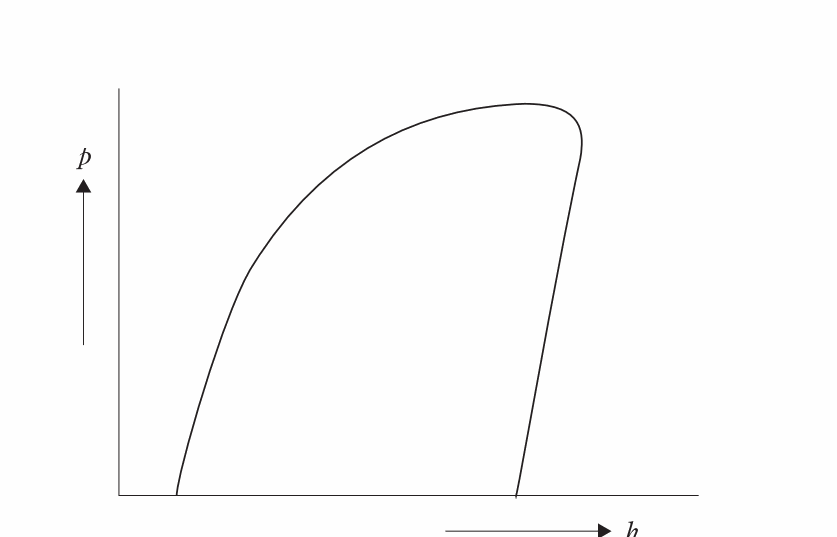
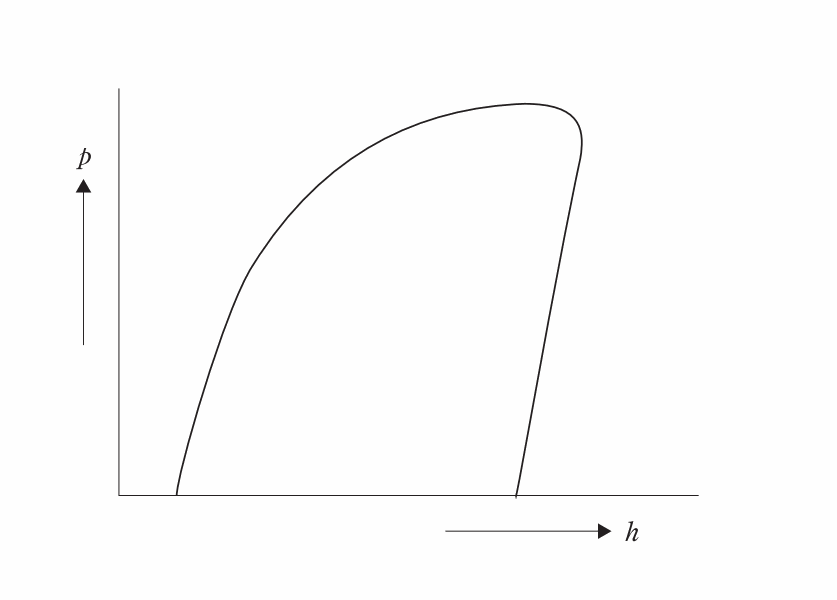
fix: address independent review findings for khk-reito
Claude-Session: https://claude.ai/code/session_01TieomE8ZuJ1vEVjmTLpy7i

diff --git a/__tests__/questions/khk-reito-staging.test.ts b/__tests__/questions/khk-reito-staging.test.ts
@@ -31,6 +31,48 @@ for (const rank of [1, 2, 3]) {
   const code = `khk-reito-${rank}` as ExamCode;
   const questions = JSON.parse(readFileSync(join(process.cwd(), `data/questions/${code}/latest-two.json`), "utf8")) as Question[];
   describe(`${code} latest two official sittings, unpublished`, () => {
+    if (rank === 1 || rank === 2) {
+      it("explains why the R6 law q1 gas at 0.9 MPa is outside the compressed-gas definition", () => {
+        const q = questions.find(q => q.year === 2024 && q.session === "houki" && q.qNumber === 1)!;
+        expect(q.officialAnswerNumber).toBe("3");
+        expect(q.answer).toBe("ウ");
+        expect(q.choices?.ウ).toBe("イ、ロ");
+        for (const text of [q.explanation, ...Object.values(q.choiceExplanations ?? {})]) {
+          expect(text).toContain("ロも正しい");
+          expect(text).toContain("かつ現に1MPa以上");
+          expect(text).toContain("35℃では1MPa未満");
+          expect(text).toContain("したがって高圧ガスではない");
+          expect(text).toContain("ハは誤り");
+          expect(text).toContain("30℃なので、常用温度で0.15MPaでも高圧ガスである");
+        }
+      });
+    }
+
+    if (rank === 1) {
+      it.each([
+        { year: 2025, number: 6, answer: "1", facts: ["ハは誤り", "同じ汚れ係数の増分", "低下は次第に緩やか", "1/K＝1/K₀＋f", "清浄時からの累積低下率とは区別", "並流より向流のほうが大きい"] },
+        { year: 2024, number: 2, answer: "1", facts: ["ロは誤り", "取付け位置よりも下流側（圧縮機側）", "調整弁の上流側（蒸発器側）", "蒸発器出口の温度と圧力", "消費動力は減少ではなく増加"] },
+      ])("explains the incorrect statements in $year safety q$number in every choice", ({ year, number, answer, facts }) => {
+        const q = questions.find(q => q.year === year && q.session === "hoan" && q.qNumber === number)!;
+        expect(q.officialAnswerNumber).toBe(answer);
+        expect(q.explanationCoverage).toBe("full");
+        for (const text of [q.explanation, ...Object.values(q.choiceExplanations ?? {})]) {
+          for (const fact of facts) expect(text).toContain(fact);
+        }
+      });
+    }
+
+    if (rank === 2) {
+      it("preserves the fourth power and squared units in the R7 radiation formula", () => {
+        const q = questions.find(q => q.year === 2025 && q.session === "kogaku" && q.qNumber === 4)!;
+        expect(q.question).toContain("Ｅ＝σＴ⁴");
+        expect(q.question).toContain("ｋＷ/ｍ²");
+        expect(q.question).toContain("ｍ²・Ｋ⁴");
+        expect(q.question).not.toMatch(/Ｔ\s*４/);
+        expect(q.officialAnswerNumber).toBe("4");
+      });
+    }
+
     it("contains complete consecutive papers and official answer sequences", () => {
       expect(questions).toHaveLength(rank === 3 ? 70 : 80);
       for (const year of [2025, 2024]) {

diff --git a/scripts/khk-reito-build.py b/scripts/khk-reito-build.py
@@ -70,6 +70,14 @@ for year in [2025, 2024]:
         for row in rows:
             number = row["qNumber"]
             text = clean(row["question"])
+            if (rank, year, kind, number) == (2, 2025, "Z", 4):
+                # PDF body p.3: the exponent and unit powers are superscripts.
+                # Text extraction flattens them; retain their mathematical meaning.
+                for original, corrected in [("Ｅ＝σ Ｔ ４", "Ｅ＝σＴ⁴"),
+                                            ("ｋＷ/ｍ２", "ｋＷ/ｍ²"),
+                                            ("ｍ２・Ｋ４", "ｍ²・Ｋ⁴")]:
+                    assert text.count(original) == 1, (paper, number, original)
+                    text = text.replace(original, corrected)
             if (rank, year, kind, number) == (3, 2025, "X", 6):
                 # PDF p.2: the horizontal fraction bar is not a minus sign.
                 assert "Ｇ＝－Ｖ\nＣ" in text

diff --git a/scripts/khk-reito-figures.py b/scripts/khk-reito-figures.py
@@ -16,7 +16,8 @@ figures = {
         ("R7ACGZ-W.pdf", 2, (95, 265, 505, 435), "2025-gakushiki-q2-diagram"),
         ("R7ACGZ-W.pdf", 4, (70, 145, 535, 325), "2025-gakushiki-q4-table"),
         ("R6fy_03.pdf", 1, (120, 125, 490, 310), "2024-gakushiki-q2-answer-diagram"),
-        ("R6ACGZK-W.pdf", 4, (205, 220, 540, 435), "2024-gakushiki-q2-blank-chart"),
+        # Include the entire h axis label and whitespace below it.
+        ("R6ACGZK-W.pdf", 4, (205, 220, 540, 460), "2024-gakushiki-q2-blank-chart"),
     ],
     2: [
         ("R6ACHZ-W.pdf", 1, (175, 225, 535, 500), "2024-second-gakushiki-q1-chart"),

diff --git a/reports/cloud-khk-reito-latest2.md b/reports/cloud-khk-reito-latest2.md
@@ -1,6 +1,8 @@
 # khk-reito 直近2回の収録監査
 
-確認日：2026-11-03 UTC。オーナー指示に記された判断日時は2026-11-04 06:10としてそのまま記録する。実行環境の日付と区別する。
+確認日：2026-11-03 UTC。独立レビュー（対象 `94db9767`）のFAIL指摘4項目を生成元から修正し、下記「独立レビュー指摘の修正と再検証」に記録した。今回の修正は未コミットの作業ツリー差分として監督役へ引き渡す。既存bundleには今回の修正を含まない。
+
+オーナー指示に記された判断日時は2026-11-04 06:10としてそのまま記録する。実行環境の日付と区別する。
 
 ## 対象回と根拠
 
@@ -43,7 +45,7 @@
 
 ## コミット保存先
 
-作業元の`.git`は環境の明示設定で読み取り専用であり、通常の`git fetch`は`cannot open '.git/FETCH_HEAD': Read-only file system`となる。作業元を変更せず、`/tmp/khk-reito-commits/.git`に書込み可能な別メタデータを用意し、作業ツリーの変更を資格ごとにコミットする。監督役が取り込めるGit bundleを出力した。pushは実施しない。
+作業元の`.git`は環境の明示設定で読み取り専用であり、通常の`git fetch`は`cannot open '.git/FETCH_HEAD': Read-only file system`となる。初回収録時は作業元を変更せず、`/tmp/khk-reito-commits/.git`に書込み可能な別メタデータを用意し、作業ツリーの変更を資格ごとにコミットした。監督役が取り込めるGit bundleを出力した。今回のレビュー修正はコミットせず、作業ツリー差分として渡す。pushは実施しない。
 
 ## 第二種冷凍機械
 
@@ -88,9 +90,9 @@
 
 PDF本文の抽出は`scripts/khk-reito-extract.py`、資格別整形は`scripts/khk-reito-build.py`、原図の切り出しは`scripts/khk-reito-figures.py`に記録した。Pythonのpdfplumberを使用。解説は`first-notes.json`・`second-notes.json`・`third-notes.json`、記述式の照合記録は`descriptive-review.json`に保存した。問題作成器は原本にない問題・選択肢を生成せず、択一正答は必ず公式正答表を読む。
 
-## 最終検証・追加数
+## 初回収録時の検証・追加数（独立レビュー前の記録）
 
-|資格|令和7年度|令和6年度|計|全肢解説|記述式|除外|
+|資格|令和7年度|令和6年度|計|肢別解説の登録数|記述式|除外|
 |---|---:|---:|---:|---:|---:|---:|
 |第一種冷凍機械|40|40|80|350肢|10原問|0|
 |第二種冷凍機械|40|40|80|400肢|0|0|
@@ -100,14 +102,69 @@ PDF本文の抽出は`scripts/khk-reito-extract.py`、資格別整形は`scripts
 - `pnpm install`：完了（pnpm 10.33.0、専用の/tmpキャッシュ・ストアを使用）。
 - `pnpm validate:questions`：26,674件、ok=26,674、fail=0、warn=16,808。警告は既存データのもの。新規khk-reitoの230件は資格別でも80/80/70件を検証し、すべてエラー0・警告0。
 - `NODE_OPTIONS=--max-old-space-size=8192 pnpm typecheck`：既定ヒープのOOM後、8GBで通過。最終表示変更も同じ設定で再確認し、通過した。
-- 関連テスト10ファイル・177テスト通過：独立転記した公式220択一正答、記述式10原問、各科目の連番・問題数、1,100肢の解説、法令基準日、必要画像、230原問の演習可能性、公開ゲート、遅延ローダー、科目名・メタデータ、記述式の通常演習・ストリーム・自己確認・キーボード・無採点完了、既存土地家屋調査士の回帰を確認した。
+- 初回の関連テスト10ファイル・177テスト通過（解説の内容品質を保証する判定ではない）：独立転記した公式220択一正答、記述式10原問、各科目の連番・問題数、1,100肢の解説キー・文字数等の構造、法令基準日、必要画像、230原問の演習可能性、公開ゲート、遅延ローダー、科目名・メタデータ、記述式の通常演習・ストリーム・自己確認・キーボード・無採点完了、既存土地家屋調査士の回帰を確認した。
 - PDF照合で修正した主な抽出不備：令和6年度の正答行境界、CID文字、数式の添字、第三種法令問6の分数、印刷用ページ記号。
 - `git diff --check`：通過。
 
 `pnpm build`・デプロイ・pushは行っていない。公開カタログへの登録と公開切替も行っていない。取得不能PDFのURL一覧は空（0件）。
 
-監督役へのコミット引渡しは`reports/khk-reito-latest2.bundle`を使用する。作業元のGitメタデータは読み取り専用のため、コミットの参照は別メタデータの`khk-reito-staging`ブランチに保存した。bundleは元HEADを前提とする差分bundleであり、検証後に生成した（bundle自身は自己参照を避けてコミットしない）。監督役は書込み可能なcheckoutで `git fetch /path/to/khk-reito-latest2.bundle khk-reito-staging:khk-reito-staging` として取り込める。
+初回収録時のコミット引渡しには`reports/khk-reito-latest2.bundle`を使用した（今回の修正は含まない）。作業元のGitメタデータは読み取り専用のため、コミットの参照は別メタデータの`khk-reito-staging`ブランチに保存した。bundleは元HEADを前提とする差分bundleであり、検証後に生成した（bundle自身は自己参照を避けてコミットしない）。監督役は書込み可能なcheckoutで `git fetch /path/to/khk-reito-latest2.bundle khk-reito-staging:khk-reito-staging` として取り込める。
 
 第一種学識の記述式は通常演習・ストリーム・問題ページで自己確認カードを使用する。KHKの公式問題・解答例へのリンクを示し、自動採点と0点の成績記録は行わない。土地家屋調査士の既存動作を含めた表示・キーボード・完了動作の回帰テストを通した。構造化データの問題著者もKHKとし、IPAの利用条件を誤表示しない。
 
-bundleの`git bundle verify`に加え、別の/tmpリポジトリへ実際にfetchして、資格別の3コミットが含まれることと、3つの問題JSONが作業ツリーとバイト単位で一致することを確認した。
+初回bundle作成時には`git bundle verify`に加え、別の/tmpリポジトリへ実際にfetchして、資格別の3コミットが含まれることと、3つの問題JSONが当時の作業ツリーとバイト単位で一致することを確認した。今回のレビュー修正はそのbundleに含まれない。
+
+
+## 独立レビュー指摘の修正と再検証
+
+対象コミット `94db9767` の独立レビュー判定はFAIL。正答番号・件数の一致や既存テスト通過では検出できなかった内容上の不備として受け入れ、以下を修正した。ここでの修正・検証完了は、独立レビューの再PASSを意味しない。
+
+1. **[P1] 令和6年度 第一種・第二種 法令問1**：`first-notes.json` の `R6ACGX-W`、`second-notes.json` の `R6ACHX-W` を修正。圧縮ガスの定義には常用温度で1MPa以上という条件に加えて「現に1MPa以上」が必要。本問は現在0.9MPaであり、40℃で1MPaなので35℃の条件も満たさず、高圧ガスではない。ロは正しい、ハは誤り、正答⑶「イ、ロ」と整合する解説にした。総合解説と各5選択肢へ反映済み。根拠：[公式原問](https://www.khk.or.jp/Portals/0/khk/exam/2024/R6ACGX-W.pdf)、[公式正答](https://www.khk.or.jp/Portals/0/khk/exam/2024/R6fy_kaitou.pdf)、[高圧ガス保安法第2条（試験基準日前の施行版）](https://laws.e-gov.go.jp/law/326AC0000000204/20231221_504AC0000000074)。
+2. **[P2] 第一種 保安管理技術の説明不足2問**：`first-notes.json` の該当項目を修正し、総合解説・各5選択肢を再生成した。令和7年度問6ハは、外表面積基準に換算した汚れ熱抵抗fについて `1/K＝1/K₀＋f` と表せるため、同じ汚れ係数の増分に対する熱通過率の低下は次第に緩やかになる。「低下割合が大きくなる」という後半が誤りであることを明記した。清浄時からの累積低下率とは区別する。これは[日本機械学会の熱通過率の式](https://www.jsme.or.jp/jsme-medwiki/doku.php?id=10%3A1009677)からの計算による説明であり、KHKが解説を公表したという意味ではない。[公式原問](https://www.khk.or.jp/Portals/0/khk/exam/2025/1110/R7ACGY-W.pdf)のイ・ロ・ニも理由とともに説明した。令和6年度問2ロは、蒸発圧力調整弁を感温筒・均圧管の取付位置より下流（圧縮機側）に配置し、蒸発器出口の温度・圧力を検出することを明記した。イ・ハの正しい理由と、ニの単位冷凍能力当たり消費動力が増加する理由も保持した。根拠：[公式原問](https://www.khk.or.jp/Portals/0/khk/exam/2024/R6ACGY-W.pdf)。
+3. **[P2] 令和7年度 第二種 学識問4ロの指数**：`scripts/khk-reito-build.py` に原本照合済みの個別補正と抽出文字列の一致チェックを追加。`Ｅ＝σＴ⁴` とし、同じ記述の単位も `ｋＷ/ｍ²`、`ｍ²・Ｋ⁴` に補正した。[公式PDF本文3ページ](https://www.khk.or.jp/Portals/0/khk/exam/2025/1110/R7ACHZ-W.pdf)を画像で照合済み。
+4. **[P3] 令和6年度 第一種 学識問2の記入前線図**：`scripts/khk-reito-figures.py` の切り出し下端を435ptから460ptへ拡張し、PNGを再生成。837×600pxとなり、横軸h全体と下側余白を目視確認した。濃度128未満の描画画素から画像下端まで59pxの余白がある。[公式解答用紙5ページ](https://www.khk.or.jp/Portals/0/khk/exam/2024/R6ACGZK-W.pdf)と照合した。
+
+### 全肢解説の再評価
+
+従来の「全肢解説完了」という記載を、1,100肢への解説登録・構造検証の実績として読み替えた。5つの解説キー、文字数、選択肢間の差分を確認するだけでは、各記述の正誤理由の十分性を保証できない。指摘対象の法令2問・保安2問は、各記述の正誤とその理由を補い、総合解説と全選択肢に反映したことを内容確認したため、`explanationCoverage: "full"` を維持する。今回、指摘対象以外の全解説を独立に再監査したとは扱わない。
+
+### 再生成・差分照合
+
+```sh
+python scripts/khk-reito-extract.py /tmp/khk-reito-pdfs
+python scripts/khk-reito-build.py /tmp/khk-reito-pdfs 1
+python scripts/khk-reito-build.py /tmp/khk-reito-pdfs 2
+python scripts/khk-reito-build.py /tmp/khk-reito-pdfs 3
+python scripts/khk-reito-figures.py /tmp/khk-reito-pdfs 1
+python scripts/khk-reito-figures.py /tmp/khk-reito-pdfs 2
+```
+
+再生成をもう一度実行し、問題JSON3点・出典台帳3点・画像8点の計14ファイルがバイト単位で同一になることを確認した。差分は解説4問、本文の数式1問、線図1点。全230問のID・件数（80/80/70）、全220択一正答番号・選択肢、記述式10問のanswer/modelAnswerは元データと一致する。第三種の問題JSON、出典台帳、残り7画像には差分なし。原本PDF22点のSHA-256を出典台帳と再照合し、22/22一致した。
+
+### 再検証結果（2026-11-03 UTC）
+
+コマンド実行時は書込み可能なCorepackキャッシュ `COREPACK_HOME=/tmp/khk-corepack` を使用した。
+
+- `pnpm validate:questions`：26,674件、ok=26,674、fail=0、warn=16,808（既存データの警告）。
+- `pnpm validate:questions --exam=khk-reito-1,khk-reito-2,khk-reito-3`：230件、ok=230、fail=0、warn=0。
+- `NODE_OPTIONS=--max-old-space-size=8192 pnpm typecheck`：終了コード0、通過。
+- 関連テスト：下記10ファイル・99テスト通過。うちkhk-reitoは14テストで、今回追加の5テストが法令2問・保安2問の総合解説／全選択肢、数式1問を確認する。公式220択一正答列、記述式、収録数、公開ゲート、ローダー、科目、演習の表示・操作・完了、土地家屋調査士の回帰も通過した。初回177テストの記録とは別の、下記コマンドによる今回の実測値である。
+- `git diff --check`：通過。
+
+```sh
+pnpm exec vitest run \
+  __tests__/questions/khk-reito-staging.test.ts \
+  __tests__/components/QuizPlayer.descriptive.test.tsx \
+  __tests__/components/QuizPlayer.keyboard.test.tsx \
+  __tests__/components/StreamQuizPlayer.keyboard.test.tsx \
+  __tests__/components/QuizPlayer.completion.test.tsx \
+  __tests__/lib/exam-config-integrity.test.ts \
+  __tests__/lib/home-directory.test.ts \
+  __tests__/lib/practice-session.test.ts \
+  __tests__/lib/questions-load.test.ts \
+  __tests__/questions/chosashi-integrity.test.ts
+```
+
+実行ログ：`/tmp/khk-reito-review-validate.log`、`/tmp/khk-reito-review-target-validate.log`、`/tmp/khk-reito-review-typecheck.log`、`/tmp/khk-reito-review-related-tests.log`。
+
+今回の変更は`.git`読み取り専用のためコミットせず、監督役が作業ツリー差分を保存する。既存の `reports/khk-reito-latest2.bundle` は初回成果の保存物であり、今回の修正を取り込む用途には使わない。
